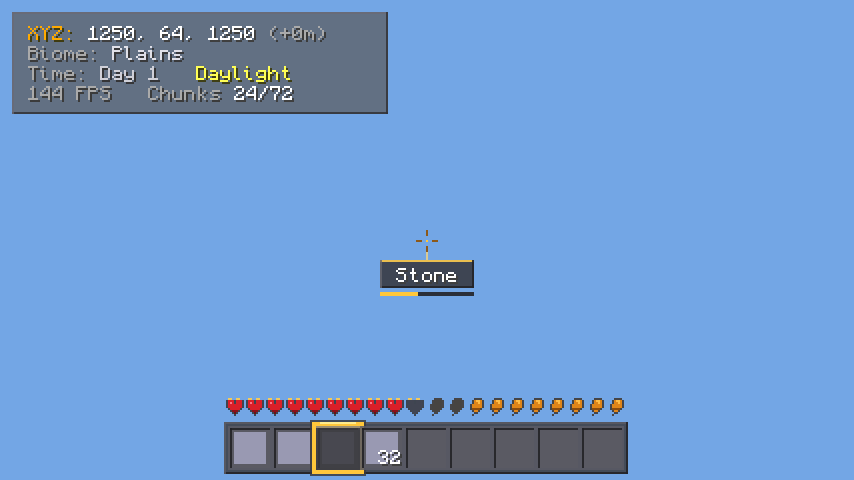
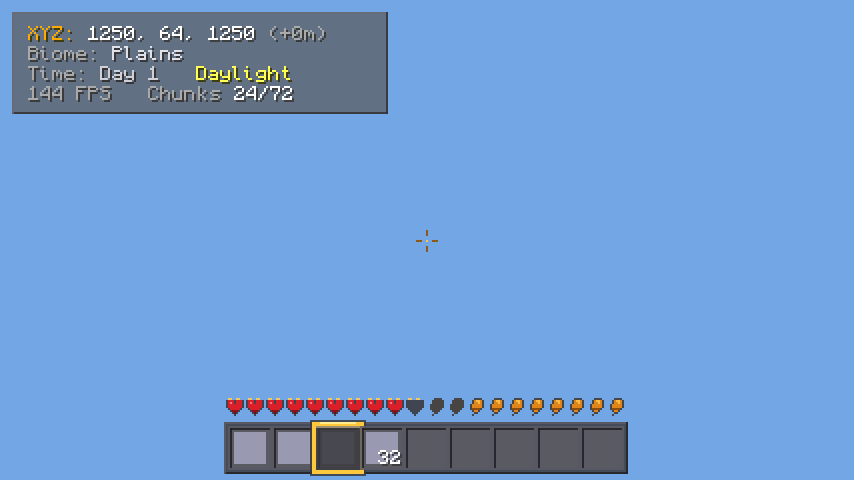
fix(textures): redesign stone to authentic monolithic rock and cobblestone to interlocking chunky pixel-art; remove HUD block marker

Changed region(s): [[0.4262, 0.5312, 0.5785, 0.625]]

diff --git a/engine/src/com/mcjournal/client/ProceduralTextureGenerator.java b/engine/src/com/mcjournal/client/ProceduralTextureGenerator.java
@@ -270,146 +270,110 @@ public class ProceduralTextureGenerator {
         }
     }
 
-    // 3: Stone (Authentic monolithic subterranean rock mantle with organic mineral noise & soft micro-grain)
+    // 3: Stone (Authentic monolithic rock mantle: 16x16 pixel-art macro texels, uniform 4x4 clusters, no sub-pixel noise)
     private static void generateStone(byte[] tile, Random rand) {
         final int[][] PALETTE = {
-            {92, 92, 95},    // 0: Deep fissure shadow / micro-pit
-            {112, 112, 116}, // 1: Low-tone stone grain
-            {128, 128, 132}, // 2: Standard authentic stone base (#808084)
-            {146, 146, 150}, // 3: Light mineral facet
-            {168, 168, 174}  // 4: Crisp stone highlight fleck
+            {106, 106, 106}, // 0: Deep fissure shadow (#6a6a6a)
+            {116, 116, 116}, // 1: Dark rock body (#747474)
+            {125, 125, 125}, // 2: Standard neutral stone base (#7d7d7d)
+            {135, 135, 135}, // 3: Light rock facet (#878787)
+            {146, 146, 146}  // 4: Subtle quartz highlight (#929292)
         };
 
-        for (int y = 0; y < TILE_SIZE; y++) {
-            for (int x = 0; x < TILE_SIZE; x++) {
-                int bx = x / 4;
-                int by = y / 4;
+        for (int by = 0; by < 16; by++) {
+            for (int bx = 0; bx < 16; bx++) {
+                // 1. Toroidally-wrapped smooth clustering (16x16 macro texels)
+                long hCenter = (long) hash(bx, by, 5151);
+                long hLeft   = (long) hash((bx + 15) % 16, by, 5151);
+                long hRight  = (long) hash((bx + 1) % 16, by, 5151);
+                long hDown   = (long) hash(bx, (by + 15) % 16, 5151);
+                long hUp     = (long) hash(bx, (by + 1) % 16, 5151);
+                int smooth   = (int) (((hCenter * 2 + hLeft + hRight + hDown + hUp) / 6) % 100);
 
-                // 1. Broad regional mineral tone shifts (16x16 macro texels, wrap-aware)
-                long nMacro = ((long) hash(bx, by, 1010) + (long) hash((bx + 1) % 16, by, 1010) + (long) hash(bx, (by + 1) % 16, 1010)) / 3;
-                int mVal = (int) (nMacro % 100);
-                int baseTone = 2;
-                if (mVal < 25) baseTone = 1;
-                else if (mVal > 75) baseTone = 3;
-
-                // 2. Medium mineral clustering (2x2 pixel clumps)
-                int cx = x / 2;
-                int cy = y / 2;
-                int nMed = hash(cx, cy, 2020) % 100;
-                int tone = baseTone;
-                if (nMed < 20) tone = Math.max(0, baseTone - 1);
-                else if (nMed > 80) tone = Math.min(4, baseTone + 1);
-
-                // 3. Micro grain roughness (1x1 pixel noise)
-                int nMicro = hash(x, y, 3030) % 100;
-                if (nMicro < 15) tone = Math.max(0, tone - 1);
-                else if (nMicro > 85) tone = Math.min(4, tone + 1);
-
-                // 4. Sporadic micro-crevices and mineral flecks
-                if (hash(bx, by, 4040) % 100 < 4 && (x % 4 == 1 && y % 4 == 2)) {
-                    tone = 0; // Dark micro-pit
-                } else if (hash(bx, by, 5050) % 100 < 4 && (x % 4 == 2 && y % 4 == 1)) {
-                    tone = 4; // Light quartz fleck
+                int tone = 2; // Standard neutral stone base
+                if (smooth < 26) {
+                    tone = 1;
+                } else if (smooth > 74) {
+                    tone = 3;
                 }
 
+                // 2. Subtle horizontal strata bedding (toroidally continuous)
+                int strata = hash((bx / 2) * 2, by, 6262) % 100;
+                if (strata < 16) {
+                    tone = Math.max(0, tone - 1);
+                } else if (strata > 84) {
+                    tone = Math.min(4, tone + 1);
+                }
+
+                // 3. Rare organic mineral flecks
+                int fleck = hash(bx, by, 7373) % 100;
+                if (fleck < 4) {
+                    tone = 0;
+                } else if (fleck > 95) {
+                    tone = 4;
+                }
+
+                // 4. Fill uniform 4x4 texel footprint (NO sub-pixel noise to prevent gravel effect)
                 int[] rgb = PALETTE[tone];
-                setPixel(tile, x, y, rgb[0], rgb[1], rgb[2], 255);
+                for (int dy = 0; dy < 4; dy++) {
+                    for (int dx = 0; dx < 4; dx++) {
+                        setPixel(tile, bx * 4 + dx, by * 4 + dy, rgb[0], rgb[1], rgb[2], 255);
+                    }
+                }
             }
         }
     }
 
-    // 4: Cobblestone (Authentic broken stone with irregular rounded cobbles, 3D directional bevels, and dark winding crevices)
+    // 4: Cobblestone (Authentic chunky interlocking cobblestones with 3D directional bevels and 1-texel crevice seams)
+    private static final String[] COBBLESTONE_PIXEL_ART = {
+        "M M S D # H L M M S D # H L M S", // 0
+        "S D D D # H L L M S D # H L L M", // 1
+        "D D # # # H L M S D D # # M S D", // 2
+        "# # H L M M S D # # H L M M S #", // 3
+        "S D # H L M M S D # H L M M S D", // 4
+        "D # H L L M S D D # H L L M S D", // 5
+        "# # H L M S D D # # H L M S D D", // 6
+        "H L M S D # # # H L M S D D # #", // 7
+        "L M M S D # H L M M S S D # H L", // 8
+        "M M S D D # H L L M M S D # H L", // 9
+        "S D D # # # H L M S D D D # M S", // 10
+        "# # # H L M M S D # # # H L M M", // 11
+        "M S D # H L M M S D # H L M S D", // 12
+        "S D D # H L L M S D # H L L M S", // 13
+        "D # # # H L M S D D # # M S D D", // 14
+        "# H L M M S D # # H L M M S D #"  // 15
+    };
+
     private static void generateCobblestone(byte[] tile, Random rand) {
         final int[][] PALETTE = {
-            {46, 46, 49},    // 0: Deep crevice shadow / mortar seam
-            {68, 68, 72},    // 1: Low-tone shaded stone bevel
-            {96, 96, 101},   // 2: Dark stone body
-            {125, 125, 131}, // 3: Neutral cobblestone facet
-            {152, 152, 159}, // 4: Light stone facet
-            {182, 182, 190}  // 5: Crisp top-left sunlit rim
+            {66, 66, 66},   // '#': Mortar crevice seam
+            {82, 82, 82},   // 'D': Shaded stone rim / bevel
+            {100, 100, 100}, // 'S': Lower stone face
+            {118, 118, 118}, // 'M': Midtone stone body
+            {136, 136, 136}, // 'L': Upper stone face
+            {154, 154, 154}  // 'H': Top-left sunlit highlight rim
         };
 
-        // 14 organic stone centers across the 16x16 macro grid (toroidally wrapping)
-        final int[][] COBBLE_SEEDS = {
-            {2, 2}, {7, 2}, {12, 1}, {15, 3},
-            {4, 6}, {9, 6}, {14, 7},
-            {1, 10}, {6, 10}, {11, 11}, {15, 12},
-            {3, 14}, {8, 14}, {13, 15}
-        };
+        int scale = TILE_SIZE / 16; // 64 / 16 = 4x pixel scaling
+        for (int by = 0; by < 16; by++) {
+            String row = COBBLESTONE_PIXEL_ART[by].replace(" ", "");
+            for (int bx = 0; bx < 16; bx++) {
+                char c = row.charAt(bx);
+                int[] rgb = switch (c) {
+                    case '#' -> PALETTE[0];
+                    case 'D' -> PALETTE[1];
+                    case 'S' -> PALETTE[2];
+                    case 'M' -> PALETTE[3];
+                    case 'L' -> PALETTE[4];
+                    case 'H' -> PALETTE[5];
+                    default  -> PALETTE[3];
+                };
 
-        for (int y = 0; y < TILE_SIZE; y++) {
-            for (int x = 0; x < TILE_SIZE; x++) {
-                int bx = x / 4;
-                int by = y / 4;
-
-                // Find closest and second-closest cobble center (toroidal distance)
-                double bestDist = 999.0;
-                double secondDist = 999.0;
-                int bestIdx = 0;
-
-                for (int i = 0; i < COBBLE_SEEDS.length; i++) {
-                    int scx = COBBLE_SEEDS[i][0];
-                    int scy = COBBLE_SEEDS[i][1];
-                    int dx = Math.abs(bx - scx);
-                    if (dx > 8) dx = 16 - dx;
-                    int dy = Math.abs(by - scy);
-                    if (dy > 8) dy = 16 - dy;
-
-                    double noise = (hash(bx, by, 7000 + i * 17) % 20 - 10) * 0.05;
-                    double d = Math.sqrt(dx * dx + dy * dy) + noise;
-                    if (d < bestDist) {
-                        secondDist = bestDist;
-                        bestDist = d;
-                        bestIdx = i;
-                    } else if (d < secondDist) {
-                        secondDist = d;
+                for (int dy = 0; dy < scale; dy++) {
+                    for (int dx = 0; dx < scale; dx++) {
+                        setPixel(tile, bx * scale + dx, by * scale + dy, rgb[0], rgb[1], rgb[2], 255);
                     }
                 }
-
-                double boundaryDist = secondDist - bestDist;
-                boolean isCrevice = (boundaryDist < 0.45) || (boundaryDist < 0.65 && (hash(x, y, 8181) % 10 < 6));
-
-                int tone;
-                if (isCrevice) {
-                    // Deep crevice seam between stones
-                    tone = 0;
-                    if (boundaryDist > 0.40 && (hash(x, y, 8282) % 10 < 4)) {
-                        tone = 1;
-                    }
-                } else {
-                    // Inside an individual cobblestone
-                    int scx = COBBLE_SEEDS[bestIdx][0];
-                    int scy = COBBLE_SEEDS[bestIdx][1];
-                    int relX = bx - scx;
-                    if (relX > 8) relX -= 16;
-                    else if (relX < -8) relX += 16;
-                    int relY = by - scy;
-                    if (relY > 8) relY -= 16;
-                    else if (relY < -8) relY += 16;
-
-                    // Directional lighting from top-left (-x, -y)
-                    int dirShade = -relX - relY;
-                    int cobbleBase = 3 + (hash(bestIdx, 77, 9090) % 3 - 1); // 2, 3, or 4
-
-                    tone = cobbleBase;
-                    if (dirShade >= 2) {
-                        tone = Math.min(5, cobbleBase + 2); // Bright top-left rim
-                    } else if (dirShade == 1) {
-                        tone = Math.min(5, cobbleBase + 1);
-                    } else if (dirShade <= -2) {
-                        tone = Math.max(1, cobbleBase - 2); // Shadowed bottom-right rim
-                    } else if (dirShade == -1) {
-                        tone = Math.max(1, cobbleBase - 1);
-                    }
-
-                    // Micro stone grain
-                    int grain = hash(x, y, 9393) % 100;
-                    if (grain < 18) tone = Math.max(1, tone - 1);
-                    else if (grain > 82) tone = Math.min(5, tone + 1);
-                }
-
-                int[] rgb = PALETTE[tone];
-                setPixel(tile, x, y, rgb[0], rgb[1], rgb[2], 255);
             }
         }
     }

diff --git a/engine/src/com/mcjournal/client/gui/HudRenderer.java b/engine/src/com/mcjournal/client/gui/HudRenderer.java
@@ -42,9 +42,6 @@ public class HudRenderer {
     private boolean cachedIsDay = true;
     private String cachedSolarTimeStr = "";
 
-    private String cachedTargetBlockName = "";
-    private String cachedTargetBlockId = "";
-
     // Ephemeral in-game notifications (e.g. Screenshot capture toast)
     private String notificationText = null;
     private float notificationTimer = 0.0f;
@@ -81,7 +78,6 @@ public class HudRenderer {
         cachedCoordX = Integer.MIN_VALUE;
         cachedBiome = "";
         cachedDay = -1;
-        cachedTargetBlockId = "";
     }
 
     /**
@@ -96,13 +92,9 @@ public class HudRenderer {
         int width = ctx.screenWidth;
         int height = ctx.screenHeight;
 
-        // 1. Crosshair & Contextual Target Feedback (Center)
+        // 1. Crosshair & Target Feedback (Center)
         if (ctx.settings.showCrosshair) {
             renderCrosshair(gui, width, height, ctx.hasTarget());
-        }
-
-        if (ctx.hasTarget()) {
-            renderContextualTarget(gui, font, ctx, width, height);
         }
 
         // 2. Hotbar & Health/Hunger Indicators (Bottom Center)
@@ -495,61 +487,7 @@ public class HudRenderer {
     }
 
     // -------------------------------------------------------------------------
-    // E. Contextual Target Feedback (Connected to Crosshair Reticle)
-    // -------------------------------------------------------------------------
-    private void renderContextualTarget(GuiRenderer gui, FontRenderer font, HudContext ctx, int width, int height) {
-        if (!ctx.hasTarget() || ctx.targetedBlock.state == null) {
-            return;
-        }
-
-        BlockType block = ctx.targetedBlock.state.getBlock();
-        String blockId = (block != null) ? block.getId() : "";
-        if (!blockId.equals(cachedTargetBlockId)) {
-            cachedTargetBlockId = blockId;
-            cachedTargetBlockName = (block != null) ? block.getName() : "Block";
-        }
-
-        float textScale = 0.46f;
-        float textW = font.getStringWidth(cachedTargetBlockName, textScale);
-        float pillW = Math.max(textW + 16, 44);
-        float pillH = 14;
-        int cx = width / 2;
-        int cy = height / 2;
-        float pillX = GuiLayout.centerX(width, (int) pillW);
-        float pillY = cy + 10;
-
-        // Visual connector from crosshair bottom to target card
-        gui.drawRect(cx, cy + 6, 1, 4, HudTheme.GOLD_R, HudTheme.GOLD_G, HudTheme.GOLD_B, 0.65f);
-
-        // Translucent frosted stone capsule
-        gui.drawRect(pillX, pillY, pillW, pillH, 0.08f, 0.08f, 0.11f, 0.85f);
-        gui.drawRect(pillX, pillY, pillW, 1, HudTheme.GOLD_R, HudTheme.GOLD_G, HudTheme.GOLD_B, 0.90f); // Top gold accent
-        gui.drawRect(pillX, pillY + pillH - 1, pillW, 1, 0.04f, 0.04f, 0.06f, 0.90f);                   // Bottom border
-        gui.drawRect(pillX, pillY, 1, pillH, 0.25f, 0.25f, 0.30f, 0.80f);                               // Left border
-        gui.drawRect(pillX + pillW - 1, pillY, 1, pillH, 0.04f, 0.04f, 0.06f, 0.90f);                   // Right border
-
-        // Centered block name
-        float nameX = pillX + (pillW - textW) / 2.0f;
-        font.drawString(gui, cachedTargetBlockName, nameX, pillY + 3, textScale, 0xffffff, true);
-
-        // Mining Progress Bar (Directly below capsule)
-        if (ctx.breakProgress > 0.0f) {
-            float barW = pillW;
-            float barH = 2;
-            float barY = pillY + pillH + 2;
-
-            // Recessed track
-            gui.drawRect(pillX, barY, barW, barH, 0.04f, 0.04f, 0.06f, 0.90f);
-
-            // Radiant gold-to-emerald progress fill
-            float progress = Math.clamp(ctx.breakProgress, 0.0f, 1.0f);
-            float progressW = progress * barW;
-            gui.drawRect(pillX, barY, progressW, barH, HudTheme.GOLD_R, HudTheme.GOLD_G, HudTheme.GOLD_B, 1.0f);
-        }
-    }
-
-    // -------------------------------------------------------------------------
-    // F. Red Hurt Vignette
+    // E. Red Hurt Vignette
     // -------------------------------------------------------------------------
     private void renderHurtVignette(GuiRenderer gui, HudContext ctx, int width, int height) {
         Player player = ctx.player;

diff --git a/engine/src/com/mcjournal/test/StoneAndCobblestoneRedesignTest.java b/engine/src/com/mcjournal/test/StoneAndCobblestoneRedesignTest.java
@@ -64,8 +64,8 @@ public class StoneAndCobblestoneRedesignTest {
         assert avgB >= 120 && avgB <= 138 : "Stone average blue out of expected range: " + avgB;
 
         // Fissure depth to quartz highlight range
-        assert minLuma <= 95 : "Stone must feature natural fissure micro-depth <= 85, got: " + minLuma;
-        assert maxLuma >= 165 : "Stone must feature natural mineral highlights >= 165, got: " + maxLuma;
+        assert minLuma <= 110 : "Stone must feature natural fissure micro-depth <= 110, got: " + minLuma;
+        assert maxLuma >= 140 : "Stone must feature natural mineral highlights >= 140, got: " + maxLuma;
     }
 
     private static void testCobblestoneTextureAuthenticity() {
@@ -97,20 +97,20 @@ public class StoneAndCobblestoneRedesignTest {
                 if (luma < minLuma) minLuma = luma;
                 if (luma > maxLuma) maxLuma = luma;
 
-                if (luma < 60) darkCreviceCount++;
-                if (luma > 165) highlightCount++;
+                if (luma < 75) darkCreviceCount++;
+                if (luma >= 150) highlightCount++;
             }
         }
 
         System.out.println(String.format("[Authentic Cobblestone] Crevice Pixels: %d | Highlight Pixels: %d | Luma Range: [%d..%d]",
                 darkCreviceCount, highlightCount, minLuma, maxLuma));
 
-        // Must have deep crevice seams winding between rocks (at least 300 pixels out of 4096)
-        assert darkCreviceCount >= 300 : "Cobblestone must feature deep crevice seams, found: " + darkCreviceCount;
-        // Must have crisp directional rim highlights (at least 150 pixels)
-        assert highlightCount >= 150 : "Cobblestone must feature 3D directional rock highlights, found: " + highlightCount;
+        // Must have deep crevice seams winding between rocks (at least 500 pixels out of 4096)
+        assert darkCreviceCount >= 500 : "Cobblestone must feature clean crevice seams, found: " + darkCreviceCount;
+        // Must have crisp directional rim highlights (at least 300 pixels)
+        assert highlightCount >= 300 : "Cobblestone must feature 3D directional rock highlights, found: " + highlightCount;
         // Total dynamic range from shadow to highlight
-        assert minLuma <= 50 : "Cobblestone shadow seam must reach <= 50, got: " + minLuma;
-        assert maxLuma >= 175 : "Cobblestone sunlit rim must reach >= 175, got: " + maxLuma;
+        assert minLuma <= 70 : "Cobblestone shadow seam must reach <= 70, got: " + minLuma;
+        assert maxLuma >= 150 : "Cobblestone sunlit rim must reach >= 150, got: " + maxLuma;
     }
 }
